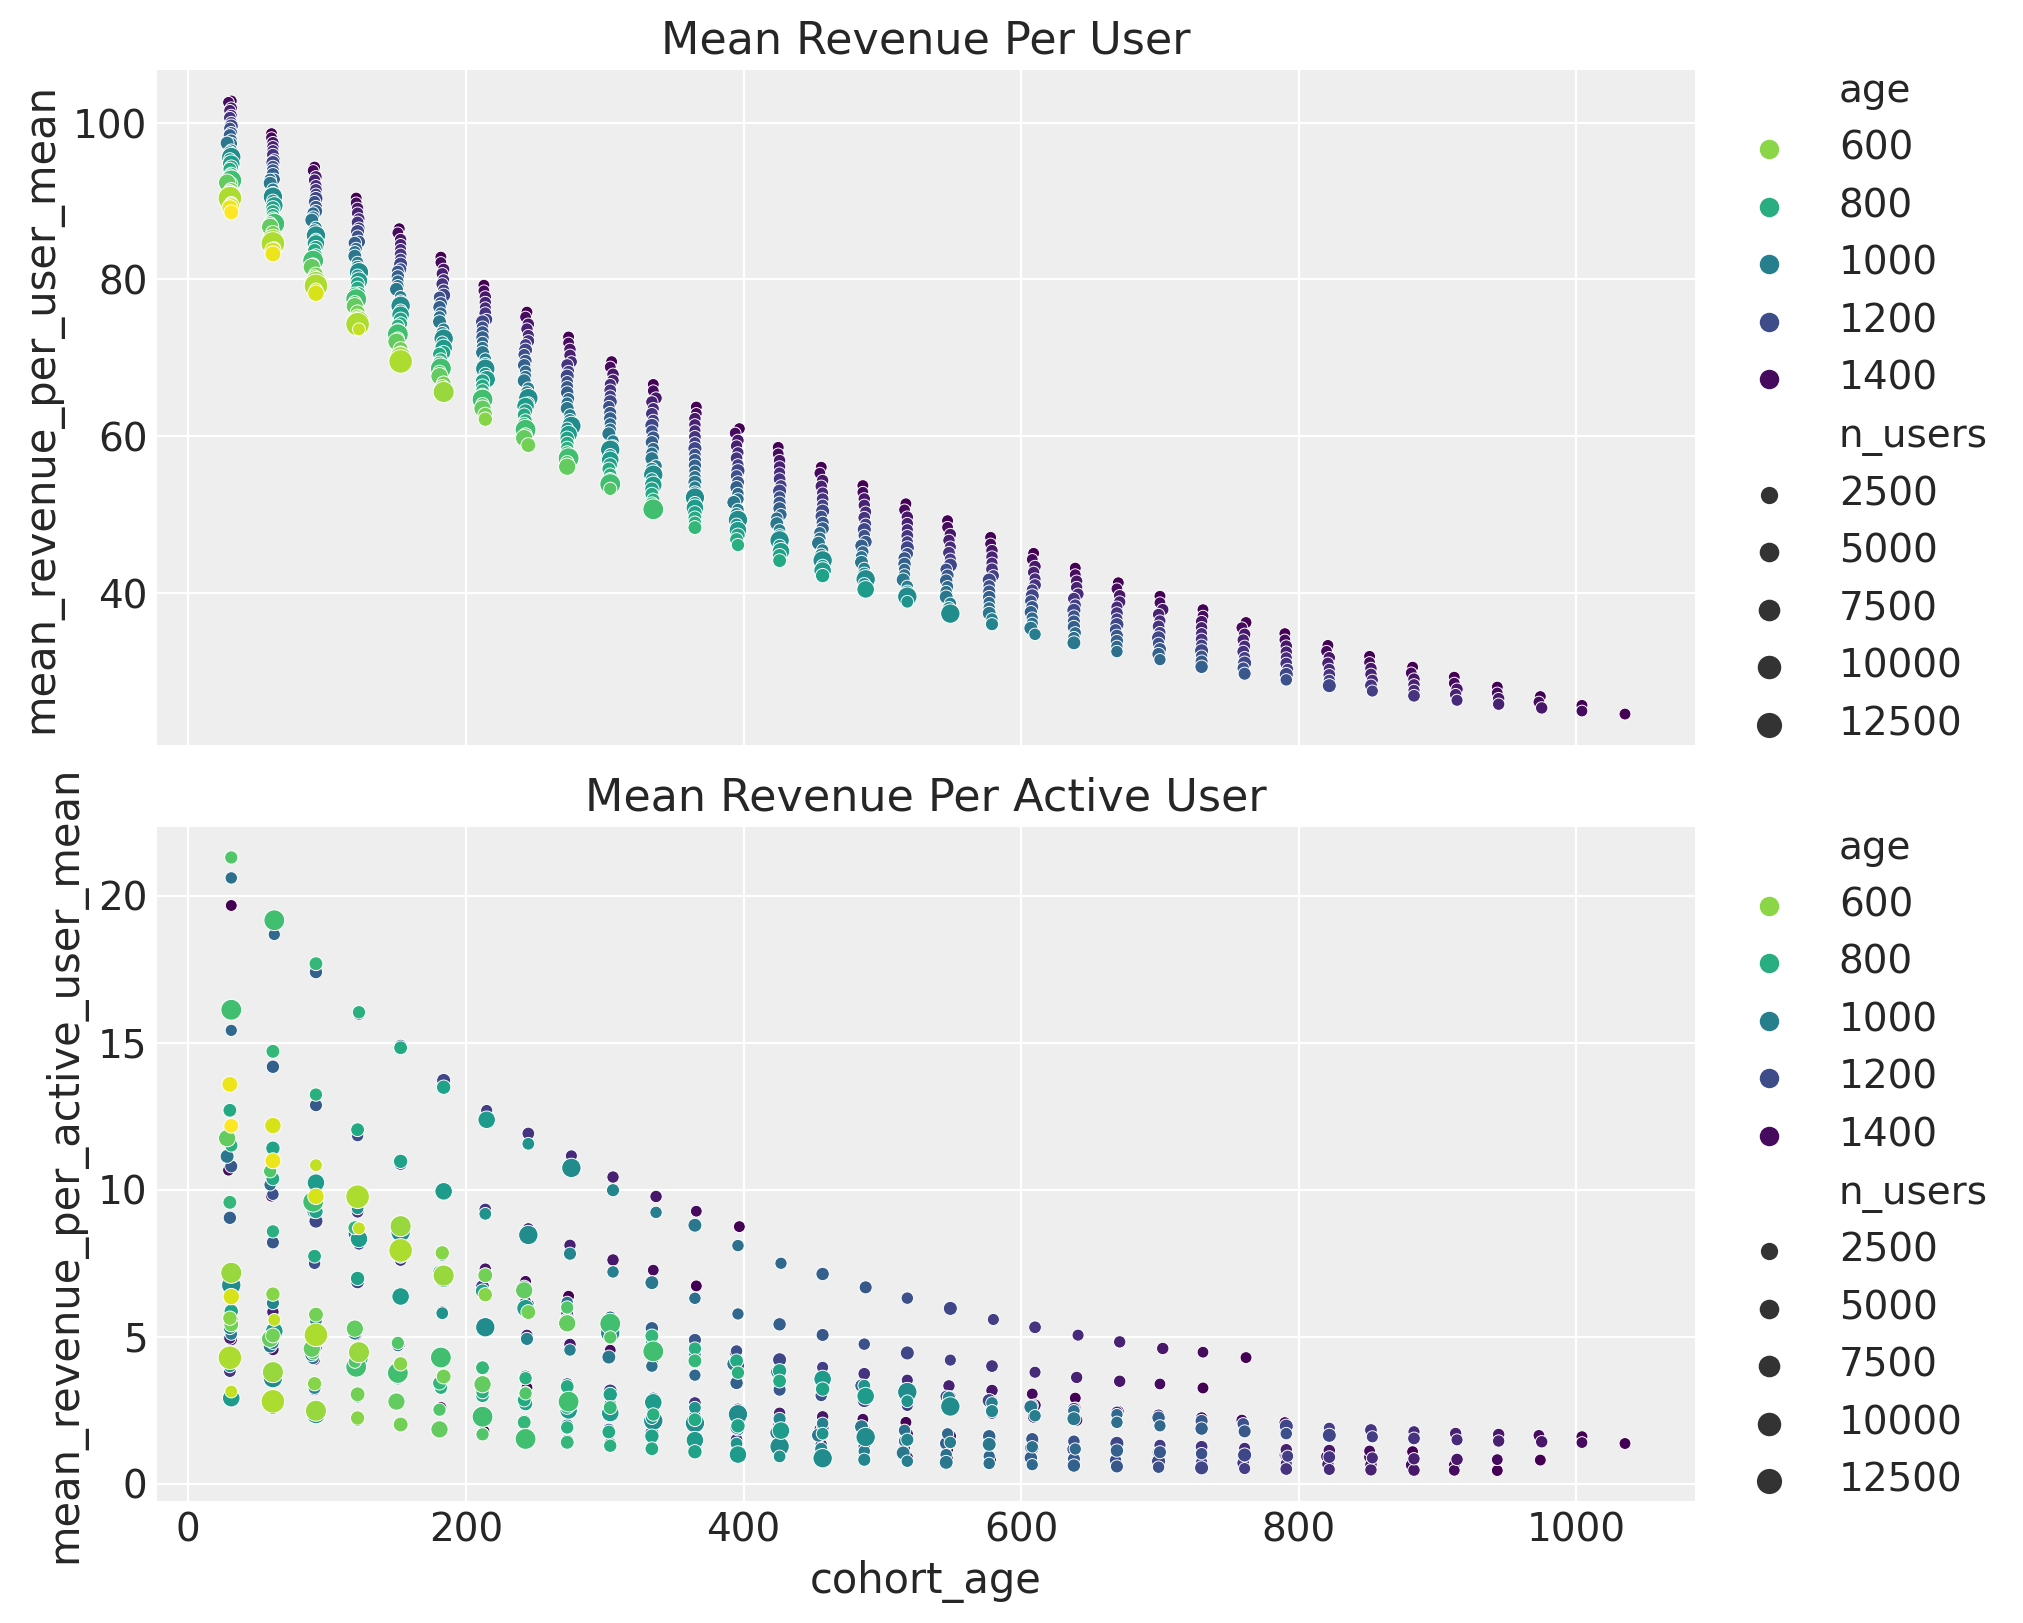
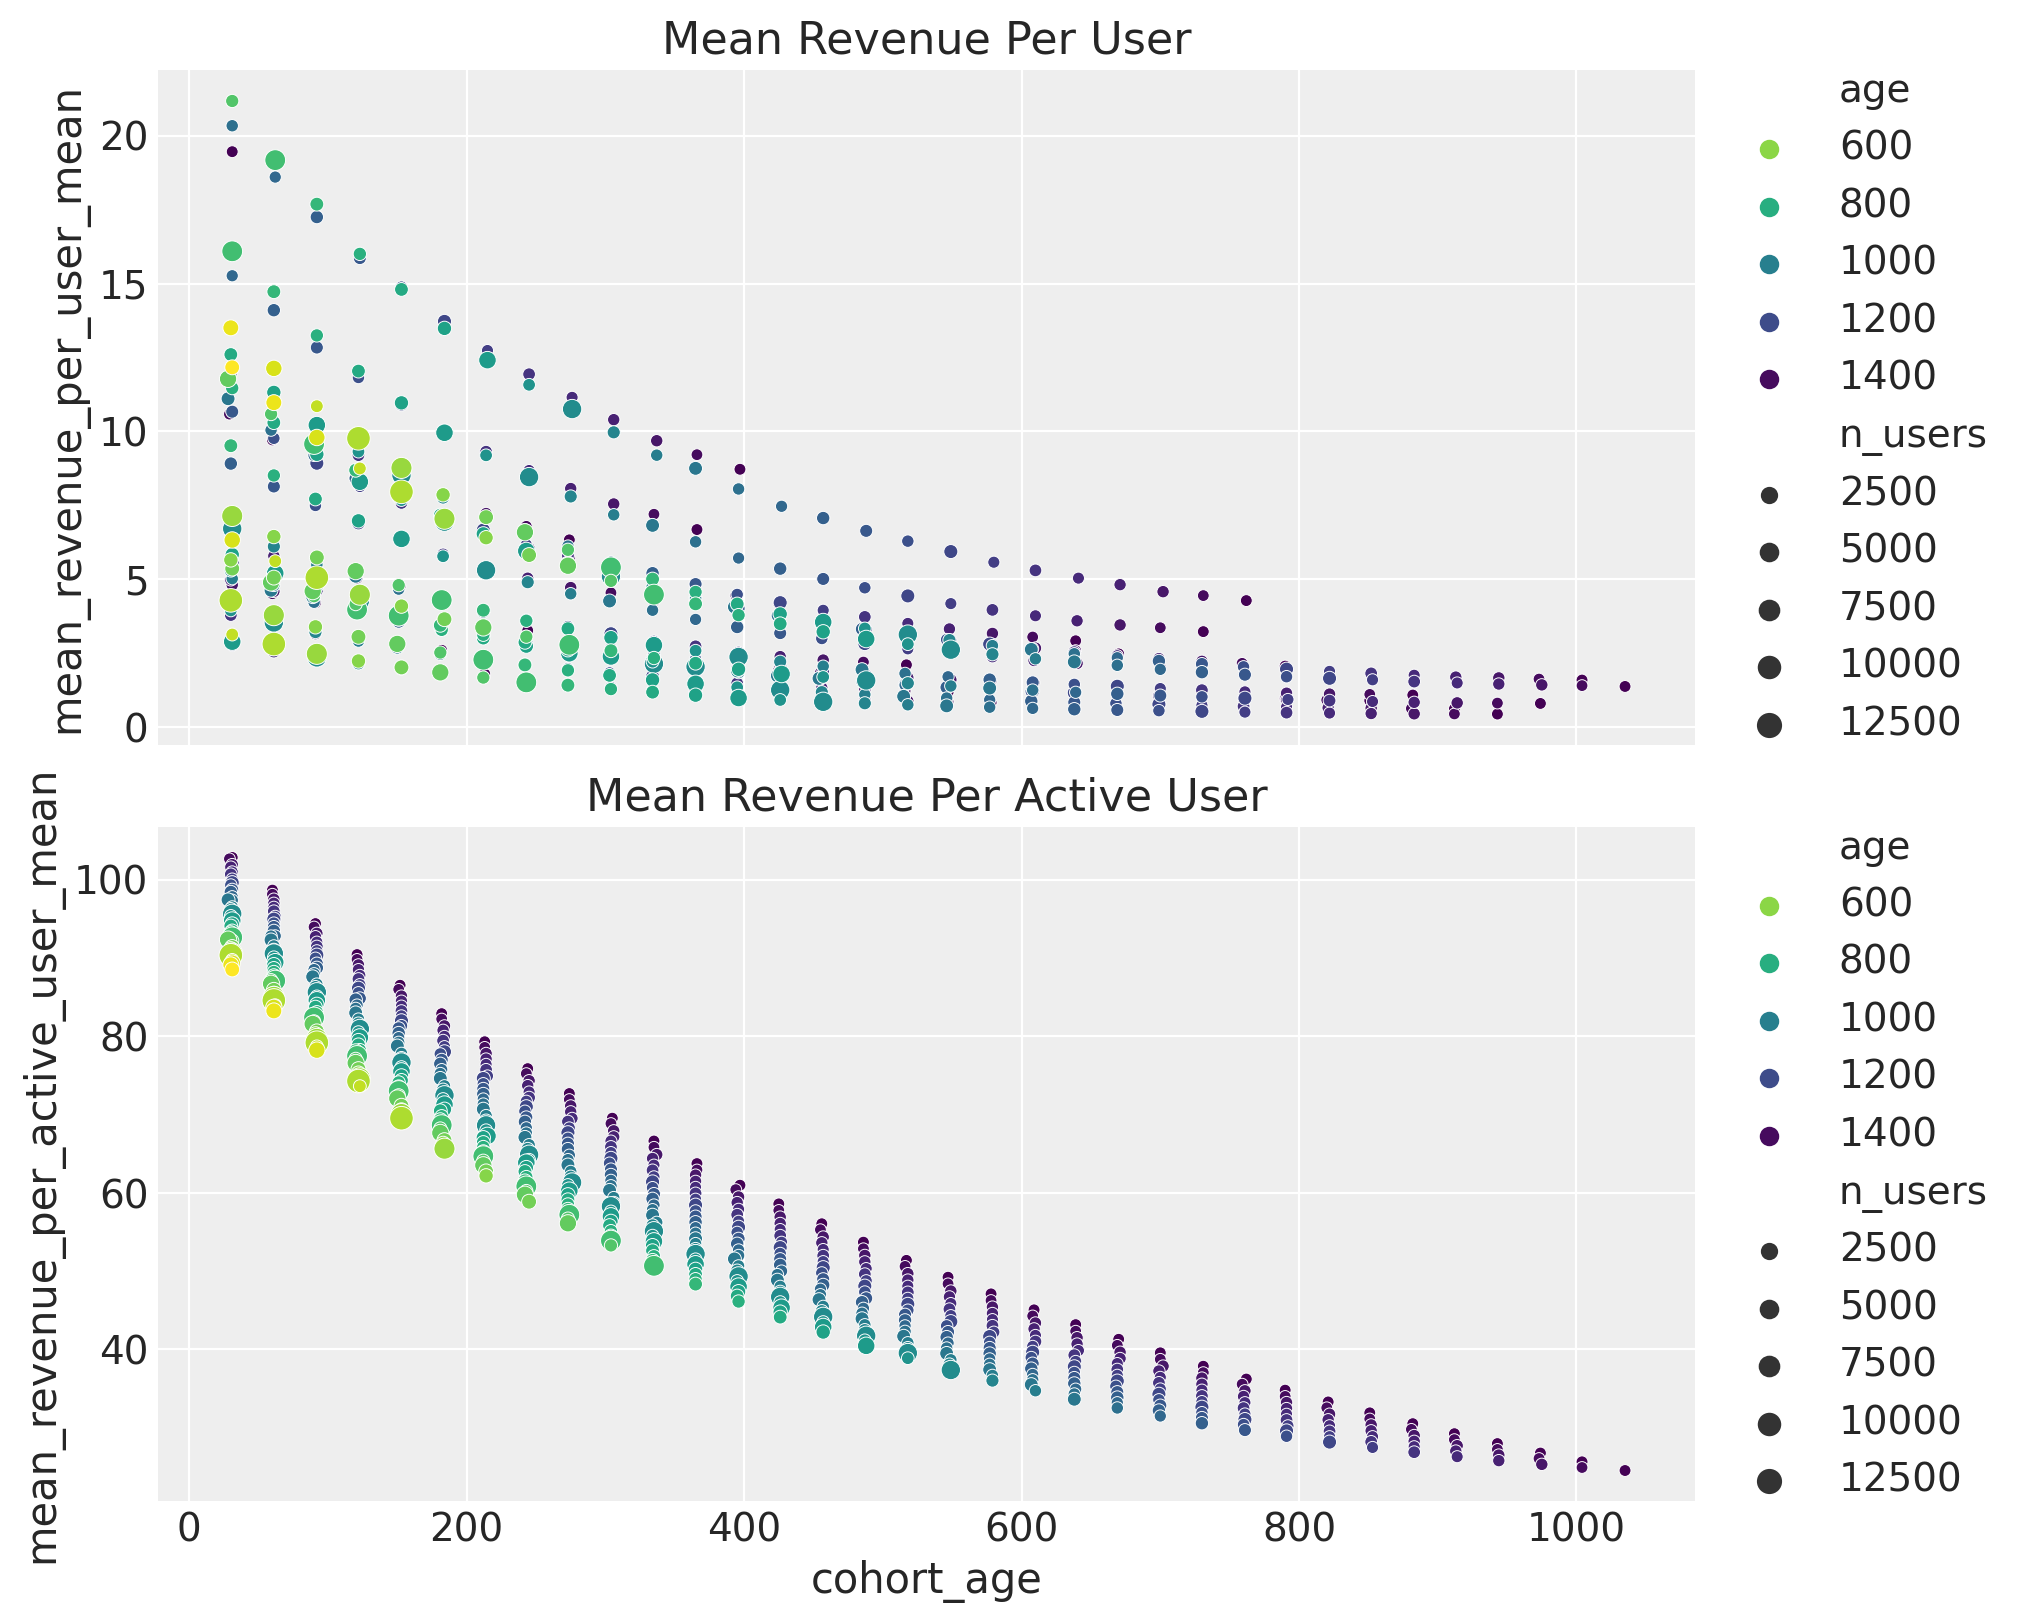
update revenue per users plots

diff --git a/revenue_retention/index.html b/revenue_retention/index.html
@@ -975,11 +975,11 @@ train_cohort_age_scaled = train_cohort_age_scaler.fit_transform(
         dims=&quot;obs&quot;,
     )
 
-    mean_revenue_per_user = pm.Deterministic(
-        name=&quot;mean_revenue_per_user&quot;, var=(1 / lam), dims=&quot;obs&quot;
+    mean_revenue_per_active_user = pm.Deterministic(
+        name=&quot;mean_revenue_per_active_user&quot;, var=(1 / lam), dims=&quot;obs&quot;
     )
     pm.Deterministic(
-        name=&quot;mean_revenue_per_active_user&quot;, var=p * mean_revenue_per_user, dims=&quot;obs&quot;
+        name=&quot;mean_revenue_per_user&quot;, var=p * mean_revenue_per_active_user, dims=&quot;obs&quot;
     )
 
 pm.model_to_graphviz(model=model)</code></pre>
